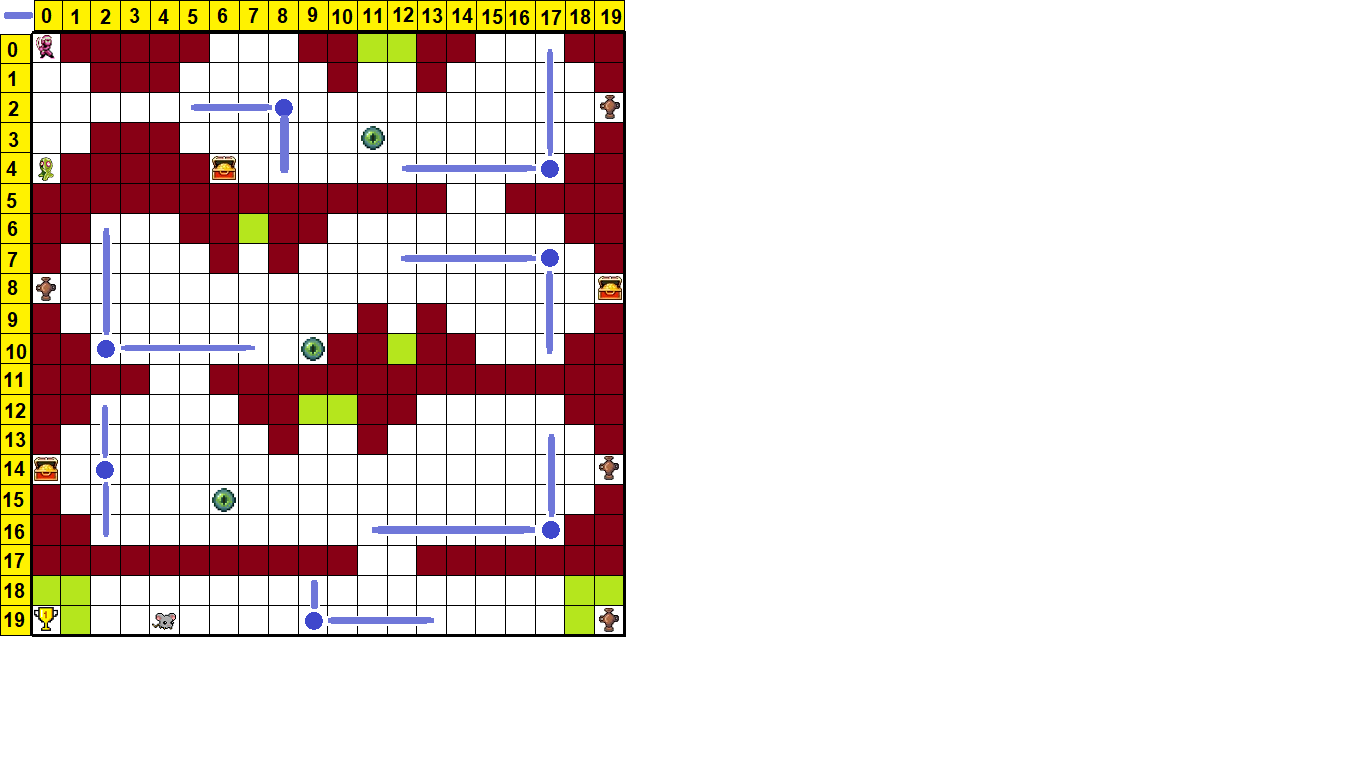
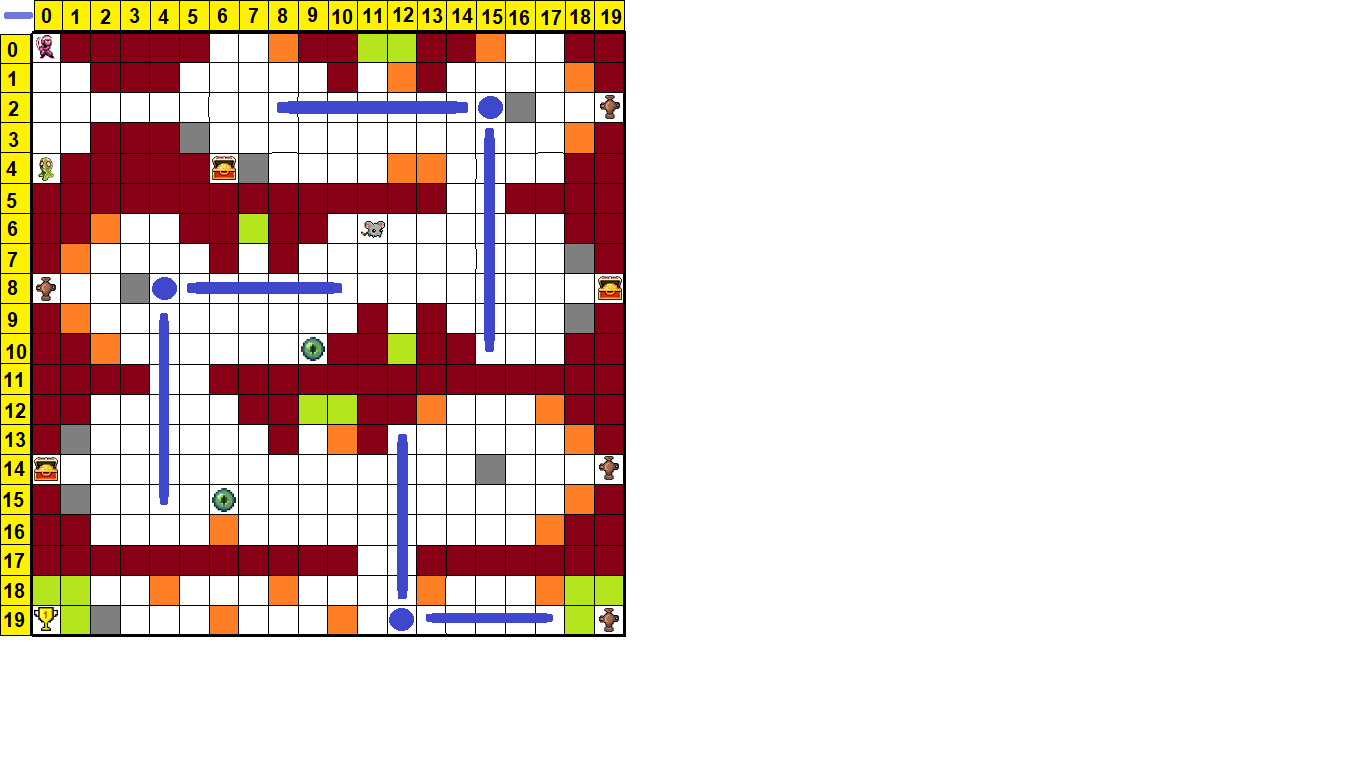
[Update] Se implementó Breadcrumbing en el juego y nueva versión del nivel 3

diff --git a/ServerCPP(DEFINITIVO)/src/Model/Spectres/Spectre.cpp b/ServerCPP(DEFINITIVO)/src/Model/Spectres/Spectre.cpp
@@ -95,6 +95,24 @@ void Spectre::calculateAStar() {
 }
 
 /**
+ * Calcula el algoritmo BreadCrumbing
+ */
+
+void Spectre::calculateBreadcrumbing() {
+    //Punto de partida
+    Pair src = make_pair(getPosition()->getRow(), getPosition()->getColumn());
+
+    //Punto destino
+    Entity *e = Entity::getEntityByID("ju01");
+    Pair dest = make_pair(e->getPosition()->getRow(), e->getPosition()->getColumn());
+
+    persuitRoute =  breadcrumbing->breadcrumbing(src, dest, routeInUse);
+    routeInUse = persuitRoute;
+    routeCounter = 0;
+}
+
+
+/**
  * Mueve el espectro a su siguiente posicion
  */
 void Spectre::moveNext() {
@@ -104,7 +122,20 @@ void Spectre::moveNext() {
         if(isOnPersuit){
             sleep(persuitVelocity);
             if(useBreadcrumbing){//En caso de ser el espectro que vio al jugador usa breadcrumbing
-                
+                if(persuitRoute->size() == 0){
+                    //Calcular BreadCrumbing*
+                    calculateBreadcrumbing();
+
+                }else{
+                    if(Board::playerHasMoved){
+                        //Calcular BreadCrumbing*
+                        calculateBreadcrumbing();
+                        //Este condicional permite al espectro moverse incluso cuando el jugador se esta moviendo
+                        if(routeInUse->size()>0 && getPosition()->compare(routeInUse->at(0))){
+                            routeCounter++;
+                        }
+                    }
+                }
             }else{//Se usa A*
                 if(persuitRoute->size() == 0){
                     //Calcular A*

diff --git a/ServerCPP(DEFINITIVO)/src/Model/algorithms/Breadcrumbing.cpp b/ServerCPP(DEFINITIVO)/src/Model/algorithms/Breadcrumbing.cpp
@@ -68,10 +68,6 @@ vector<Position*>* Breadcrumbing::calculateChaseRoute(Pair src, Pair destination
      * @return Vector con la ruta a seguir
      */
 vector<Position*>* Breadcrumbing::breadcrumbing(Pair src, Pair dest, vector<Position*>* currentRoute) {
-
-    cout << "[" << originalDestination.first << ", " << originalDestination.second << "]" << endl;
-    printVector(currentRoute);
-
     // If the source is out of range
     if (!isValid(src.first, src.second)) {
         printf("Source is invalid\n");
@@ -89,18 +85,20 @@ vector<Position*>* Breadcrumbing::breadcrumbing(Pair src, Pair dest, vector<Posi
 
     if (isFirstSight) { //Si es la primera vez que lo ve
         cout << "Es mi prmera vez" << endl;
-        //this->originalDestination = dest;
         vector<Position*>* partialRoute;
         partialRoute = calculateChaseRoute(src, dest);
         this->totalRoute = partialRoute;
         this->isFirstSight = false;
+        cout << "Se ha calculado Breadcrumbing: "; printVector(partialRoute);
         return partialRoute;
     }
     if (!isFirstSight) { //Si no es la primera vez que lo ve
         cout << "Ya no es mi prmera vez" << endl;
         //this->totalRoute->insert(totalRoute->end(), breadCrumbs->begin(), breadCrumbs->end());
         Position* newnewPosition = new Position(newDest->getRow(), newDest->getColumn());
+        currentRoute->clear();
         currentRoute->push_back(newnewPosition);
+        cout << "Se ha calculado Breadcrumbing: "; printVector(currentRoute);
         return currentRoute;
     }
 }

diff --git a/ServerCPP(DEFINITIVO)/src/Model/Spectres/Spectre.h b/ServerCPP(DEFINITIVO)/src/Model/Spectres/Spectre.h
@@ -11,6 +11,8 @@
 #include <thread>
 #include <unistd.h>
 #include "../Board/Board.h"
+#include "../algorithms/Breadcrumbing.h"
+#include "../algorithms/Bresenham.h"
 
 
 using namespace std;
@@ -38,6 +40,8 @@ private:
     bool isOnPersuit = false;
     SpectreType spectreType;
     bool useBreadcrumbing = false;
+    Breadcrumbing* breadcrumbing = new Breadcrumbing;
+    Bresenham* bresenham = new Bresenham;
 
 public:
 
@@ -83,6 +87,9 @@ public:
     string toString();
     void printSpectre();
 
+    void calculateBreadcrumbing();
+
+    void calculateBresenham();
 };
 
 

diff --git a/ServerCPP(DEFINITIVO)/src/Model/algorithms/Breadcrumbing.h b/ServerCPP(DEFINITIVO)/src/Model/algorithms/Breadcrumbing.h
@@ -7,7 +7,7 @@
 
 #include<bits/stdc++.h>
 #include <iostream>
-#include "Position.h"
+#include "../Board/Position.h"
 using namespace std;
 
 #define ROW 20
@@ -16,7 +16,6 @@ using namespace std;
 class Breadcrumbing {
 public:
     typedef pair<int, int> Pair;
-    Pair originalDestination;
     vector<Position*>* breadCrumbs = new vector<Position*>;
     vector<Position*>* totalRoute = new vector<Position*>;
     bool isFirstSight = true;
